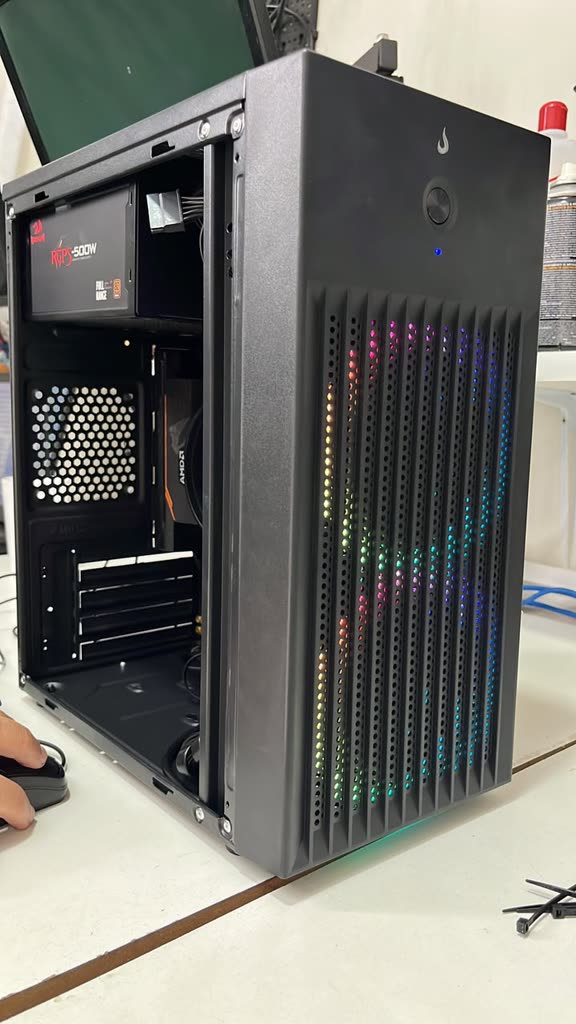
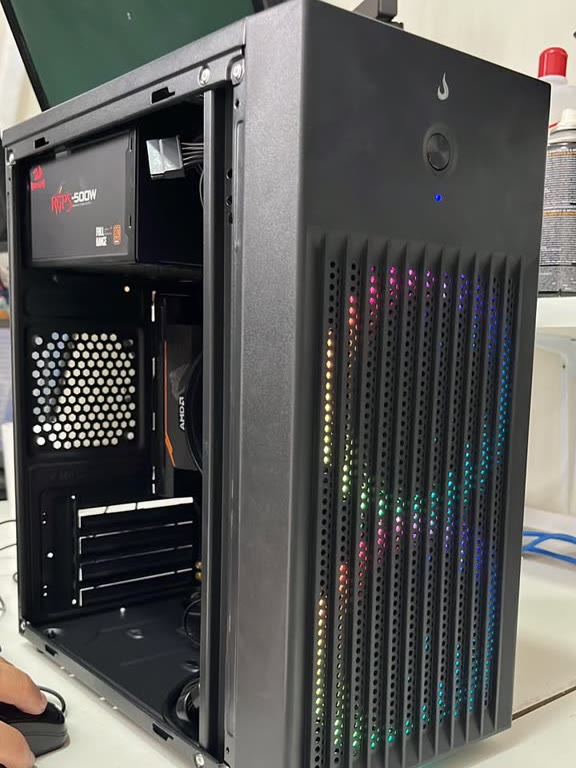
Video do Bruno no hero, grafite fosco e galeria 2x2
Revisao de frontend/UX apontou os tres pontos pedidos e mais sete achados.

- Video do Instagram sai do Sobre e vira a coluna direita do hero, no
  mesmo padrao opt-in dos outros: carrega o poster, nunca o mp4
- Preto puro #0d0d0d vira grafite fosco #23262b; texto, amarelo e o
  wordmark branco da logo todos acima de 10:1
- .topo e o meta theme-color nao usam a variavel, foram junto na mao
- Galeria: a foto da placa de iPhone desce do hero e fecha o grid 2x2,
  que antes deixava a terceira foto orfa sozinha na segunda linha
- montagem-pc e placa-iphone recortadas para 3:4 no arquivo-fonte; o
  object-fit cover cortava as duas em lugar errado
- Nav ganha o link da secao de video, que so era alcancavel por scroll
- Chips do hero na mesma ordem do h1
- Remove regra .galeria duplicada no media query de 640px
- README reescrito: estava documentando noindex e dominio pendente

diff --git a/index.html b/index.html
@@ -6,7 +6,7 @@
 <link rel="canonical" href="https://cerestecnologia.com.br/">
 <title>Ceres · Assistência técnica de computador, notebook, celular e impressora em Bonsucesso, Rio de Janeiro</title>
 <meta name="description" content="Manutenção de computador, notebook, celular e impressora em Bonsucesso, Rio de Janeiro. 5,0 no Google com 229 avaliações.">
-<meta name="theme-color" content="#0d0d0d">
+<meta name="theme-color" content="#23262b">
 <link rel="icon" href="assets/favicon.ico" sizes="any">
 <link rel="icon" type="image/png" sizes="32x32" href="assets/favicon-32.png">
 <link rel="apple-touch-icon" href="assets/apple-touch-icon.png">
@@ -81,6 +81,7 @@
     </a>
     <nav aria-label="Seções">
       <a href="#servicos">Serviços</a>
+      <a href="#trabalho">Serviço sendo feito</a>
       <a href="#como-funciona">Como funciona</a>
       <a href="#onde">Onde estamos</a>
       <a href="#sobre">Sobre</a>
@@ -116,15 +117,19 @@
         <a class="botao-secundario" href="#servicos">Ver serviços</a>
       </div>
       <ul class="hero-chips" aria-label="Tipos de atendimento">
+        <li>Computador</li>
         <li>Notebook</li>
         <li>Celular</li>
-        <li>Computador</li>
         <li>Impressora</li>
       </ul>
     </div>
-    <figure class="hero-foto">
-      <img src="assets/placa-iphone.jpeg" alt="Mão com luva segurando a placa de um iPhone sobre tapete azul de bancada." width="720" height="1280" loading="eager" fetchpriority="high" decoding="async">
-      <figcaption>Placa de iPhone na bancada.</figcaption>
+    <figure class="hero-video">
+      <button class="video-facade" type="button" data-video-src="assets/video-ceres-instagram.mp4" data-video-poster="assets/poster-video-ceres.jpg" data-video-label="Assistir ao vídeo do Bruno, dono da Ceres, 26 segundos" aria-label="Assistir ao vídeo do Bruno, dono da Ceres, 26 segundos">
+        <img src="assets/poster-video-ceres.jpg" alt="" width="576" height="1024" loading="eager" fetchpriority="high" decoding="async">
+        <span class="play" aria-hidden="true"><svg viewBox="0 0 24 24"><path d="M8 5v14l11-7z"/></svg></span>
+      </button>
+      <noscript><video controls preload="none" playsinline poster="assets/poster-video-ceres.jpg"><source src="assets/video-ceres-instagram.mp4" type="video/mp4">Seu navegador não conseguiu carregar este vídeo.</video></noscript>
+      <figcaption>É o Bruno, dono da Ceres. Vídeo publicado no Instagram.</figcaption>
     </figure>
   </section>
 
@@ -327,14 +332,6 @@
       <div class="sobre-texto">
         <p>A Ceres trabalha com computador, notebook, celular e impressora. O serviço vai da limpeza e da troca de peça ao reparo em placa.</p>
         <p>O atendimento é pelo WhatsApp. Você explica o problema do seu jeito, e a Ceres traduz para o que precisa ser feito.</p>
-        <figure class="video-card video-sobre">
-          <button class="video-facade" type="button" data-video-src="assets/video-ceres-instagram.mp4" data-video-poster="assets/poster-video-ceres.jpg" data-video-label="Assistir ao vídeo da Ceres no Instagram, 26 segundos" aria-label="Assistir ao vídeo da Ceres no Instagram, 26 segundos">
-            <img src="assets/poster-video-ceres.jpg" alt="" width="576" height="1024" loading="lazy" decoding="async">
-            <span class="play" aria-hidden="true"><svg viewBox="0 0 24 24"><path d="M8 5v14l11-7z"/></svg></span>
-          </button>
-          <noscript><video controls preload="none" playsinline poster="assets/poster-video-ceres.jpg"><source src="assets/video-ceres-instagram.mp4" type="video/mp4">Seu navegador não conseguiu carregar este vídeo.</video></noscript>
-          <figcaption>Vídeo publicado pela Ceres no Instagram. É o Bruno, dono da Ceres.</figcaption>
-        </figure>
       </div>
       <div class="galeria">
         <figure>
@@ -346,8 +343,12 @@
           <figcaption>Placa de vídeo desmontada.</figcaption>
         </figure>
         <figure>
-          <img src="assets/montagem-pc.jpeg" alt="Gabinete montado, com iluminação colorida acesa." width="576" height="1024" loading="lazy" decoding="async">
+          <img src="assets/montagem-pc.jpeg" alt="Gabinete montado, com iluminação colorida acesa." width="576" height="768" loading="lazy" decoding="async">
           <figcaption>Computador montado.</figcaption>
+        </figure>
+        <figure>
+          <img src="assets/placa-iphone.jpeg" alt="Mão com luva segurando a placa de um iPhone sobre tapete azul de bancada." width="720" height="960" loading="lazy" decoding="async">
+          <figcaption>Reparo em placa de iPhone.</figcaption>
         </figure>
       </div>
     </div>

diff --git a/style.css b/style.css
@@ -1,12 +1,17 @@
 /* Ceres · soluções em tecnologia */
 
+/* Grafite fosco, nao preto puro. O #0d0d0d antigo endurecia a pagina inteira.
+   Este tom e claro o bastante para se ver a diferenca lado a lado com o preto
+   antigo, e ainda mantem todo o texto, o amarelo da marca e o wordmark branco
+   da logo acima de 10:1 (AAA). Ao mudar --preto, mudar junto o rgba do .topo
+   e o meta theme-color do index.html, que nao usam a variavel. */
 :root {
-  --preto: #0d0d0d;
-  --superficie: #161616;
-  --superficie-2: #1c1c1c;
-  --linha: #2f2f2f;
-  --texto: #f4f4f4;
-  --texto-2: #c2c2c2;
+  --preto: #23262b;
+  --superficie: #2d3138;
+  --superficie-2: #30343b;
+  --linha: #4a505a;
+  --texto: #f4f5f6;
+  --texto-2: #c3c8d0;
   --amarelo: #ffd400;
   --amarelo-escuro: #e6bf00;
   --sobre-amarelo: #1a1500;
@@ -76,8 +81,16 @@ a:focus-visible, button:focus-visible {
   position: sticky;
   top: 0;
   z-index: 50;
-  background: rgba(13, 13, 13, .96);
-  border-bottom: 1px solid rgba(255,255,255,.14);
+  background: rgba(35, 38, 43, .88);
+  -webkit-backdrop-filter: saturate(140%) blur(10px);
+  backdrop-filter: saturate(140%) blur(10px);
+  border-bottom: 1px solid rgba(255,255,255,.10);
+}
+
+/* Sem suporte a backdrop-filter o topo precisa voltar a ser opaco,
+   senao o conteudo passa por tras e o wordmark branco some. */
+@supports not (backdrop-filter: blur(10px)) {
+  .topo { background: rgba(35, 38, 43, .97); }
 }
 
 .faixa {
@@ -154,7 +167,7 @@ a:focus-visible, button:focus-visible {
   margin: 0 auto;
   padding: 58px 20px 54px;
   display: grid;
-  grid-template-columns: minmax(0, 1fr) minmax(260px, 360px);
+  grid-template-columns: minmax(0, 1fr) minmax(240px, 304px);
   gap: 42px;
   align-items: center;
 }
@@ -259,16 +272,22 @@ a:focus-visible, button:focus-visible {
   font-size: 15px;
 }
 
-.hero-foto {
-  width: min(100%, 360px);
+/* O video do hero e vertical 9:16. A 304px de largura ele fecha em 540px de
+   altura, que e o teto antes de empurrar o h1 e os botoes para fora da dobra. */
+.hero-video {
+  width: min(100%, 304px);
   justify-self: end;
 }
-.hero-foto img {
-  width: 100%;
-  max-height: 520px;
-  object-fit: cover;
+.hero-video .video-facade {
   border-radius: var(--raio);
+  overflow: hidden;
   border: 1px solid rgba(255,255,255,.14);
+  background: var(--superficie);
+}
+.hero-video figcaption {
+  text-align: center;
+  margin-top: 12px;
+  font-size: 13px;
 }
 
 .secao {
@@ -399,10 +418,18 @@ a:focus-visible, button:focus-visible {
   padding: 0 14px 14px;
 }
 .video-facade,
-.video-card video {
+.video-card video,
+.hero-video video {
   width: 100%;
   aspect-ratio: 9 / 16;
   background: var(--preto);
+}
+/* O JS troca o botao por um <video> de verdade no clique. No hero ele precisa
+   herdar a moldura do botao, senao a borda e o raio somem no play. */
+.hero-video video {
+  border-radius: var(--raio);
+  border: 1px solid rgba(255,255,255,.14);
+  object-fit: cover;
 }
 .video-facade {
   position: relative;
@@ -543,22 +570,33 @@ blockquote p {
   align-items: start;
 }
 .sobre-texto p + p { margin-top: 14px; }
-.video-sobre { margin-top: 22px; }
+
+/* As quatro fotos vem do Instagram em proporcoes diferentes (3:4 e 9:16).
+   Deixar cada uma com a sua altura era o que desarrumava a secao, entao todas
+   entram no mesmo slot 3:4 e o grid fecha 2x2 certinho. */
 .galeria {
   display: grid;
   grid-template-columns: repeat(2, minmax(0, 1fr));
-  gap: 12px;
+  gap: 14px;
+  align-content: start;
 }
 .galeria figure {
   min-height: 0;
+  display: flex;
+  flex-direction: column;
 }
 .galeria img {
   width: 100%;
   aspect-ratio: 3 / 4;
   object-fit: cover;
   border-radius: var(--raio);
+  border: 1px solid var(--linha);
 }
-.galeria img { border: 1px solid var(--linha); }
+.galeria figcaption {
+  margin-top: 8px;
+  font-size: 13px;
+  line-height: 1.35;
+}
 
 .link {
   color: var(--amarelo);
@@ -632,9 +670,12 @@ blockquote p {
     grid-template-columns: 1fr;
     padding-top: 34px;
   }
-  .hero-foto {
+  /* No mobile o video entra depois de todo o texto do hero. A 300px ele
+     acrescenta 533px de rolagem antes de "Serviços", entao encolhe junto
+     com a viewport. */
+  .hero-video {
     justify-self: center;
-    width: min(100%, 340px);
+    width: min(78vw, 300px);
   }
   .cartoes,
   .passos,
@@ -674,7 +715,6 @@ blockquote p {
     width: min(100%, 300px);
   }
   .mapa-facade { aspect-ratio: 4 / 3; }
-  .galeria { grid-template-columns: repeat(2, minmax(0, 1fr)); }
   .flutuante {
     right: 12px;
     bottom: 12px;

diff --git a/README.md b/README.md
@@ -1,44 +1,51 @@
 # Site da Ceres · soluções em tecnologia
 
-Site de página única da Ceres, feito para revisão do Bruno antes de qualquer publicação em domínio próprio.
-
-> Esta é uma versão de revisão. O site continua com `noindex`, e o `Disallow: /` do `robots.txt` deve sair junto com o `noindex` somente depois da aprovação do Bruno e da mudança para o domínio próprio. Só então o schema.org passa a valer para busca.
+Site de página única da Ceres. Publicado na Vercel, projeto `ceres-tecnologia`, domínio `cerestecnologia.com.br`.
 
 ## Decisões
 
-- Tema preto dominante porque a marca da Ceres, no cartão final do vídeo do próprio cliente, é branca sobre preto.
+- Tema escuro dominante porque a marca da Ceres é branca sobre fundo escuro. O preto puro `#0d0d0d` original endurecia a página e foi trocado por um grafite fosco `#23262b`. Todo texto, o amarelo da marca e o wordmark branco ficam acima de 10:1 (AAA).
+- Ao mudar `--preto` no `:root`, mudar junto o `rgba()` do `.topo` e o `<meta name="theme-color">` do `index.html`. Esses dois não usam a variável.
 - `@cerestec` não foi suposto: aparece como marca d'água nos vídeos que o Bruno enviou.
-- O vídeo do Instagram é vídeo institucional do Bruno, não filmagem de conserto. A legenda anterior descrevia algo que o vídeo não mostrava.
+- O vídeo do Instagram é o Bruno, dono da Ceres, e fica no hero como primeira prova social da página.
 - Os outros dois vídeos são montagem de computador e computador montado. A legenda de cada um diz o serviço mostrado.
-- Mapa e vídeo são opt-in: nada de terceiro e nenhum `.mp4` carrega antes de um clique.
+- Mapa e vídeo são opt-in: nada de terceiro e nenhum `.mp4` carrega antes de um clique. O hero carrega só o poster do vídeo, não o vídeo.
+- As fotos da galeria foram recortadas para 3:4 no arquivo-fonte. Antes eram proporções misturadas forçadas no mesmo slot por `object-fit: cover`, e o corte caía em lugar errado.
 - O WhatsApp está ativo. O único ponto de edição para trocar o número fica no fim do `index.html`, na constante `WHATSAPP`.
 - Cada cartão de serviço abre o WhatsApp com uma mensagem própria, usando `data-msg`.
 - A nota 5,0 com 229 avaliações aparece em destaque na página para conversão. `aggregateRating` não é emitido porque avaliação da própria empresa no site da própria empresa é self-serving e não é elegível a rich result para `LocalBusiness`/`Organization`.
 
 ## Dados locais
 
-O endereço confirmado é Rua Cardoso de Morais, 145 - Sl 411 - Bonsucesso, Rio de Janeiro/RJ, CEP 21032-025. Antes do domínio próprio, ainda é preciso o ok do Bruno para o número e a sala.
+O endereço é Rua Cardoso de Morais, 145 - Sl 411 - Bonsucesso, Rio de Janeiro/RJ, CEP 21032-025, confirmado pelo Bruno.
+
+O telefone é `(21) 99143-7505`, confirmado pelo Bruno como o mesmo número do WhatsApp.
 
 O link do perfil no Google usa `cid`, que é canônico e permanente. Não é link de busca que expira.
 
-O `geo` foi removido porque a coordenada disponível não é confiável. O mapa passou a abrir por nome do negócio e endereço, e continua opt-in.
-
-O telefone confirmado no perfil é `(21) 99143-7505`. Antes do domínio próprio, ainda é preciso o Bruno confirmar que este telefone é o mesmo número do WhatsApp da Ceres.
+O `geo` foi removido porque a coordenada disponível não é confiável. O mapa abre por nome do negócio e endereço, e continua opt-in.
 
 O Google Ads bloqueia anúncio pago de assistência técnica terceirizada ao consumidor. Isso torna o orgânico e o perfil local o canal viável no Google, então o `LocalBusiness` e o NAP consistente têm peso maior neste site.
 
-O domínio não foi perdido: a empresa perdeu o site publicado na Wix, não o domínio. Não é preciso comprar domínio novo; basta apontar o DNS ou transferir.
+O domínio antigo era `cerestecnologia.com`, na Wix. Foi comprado um domínio novo no Registro.br, `cerestecnologia.com.br`, e o site passou a ser servido pela Vercel.
 
-## O que falta
+## Publicação
 
-| Item | Por que falta |
-|---|---|
-| Logo em arquivo | Existe cartão de marca no fim do vídeo, mas não arquivo próprio |
+O deploy é pela Vercel, projeto `ceres-tecnologia` no escopo `naua-jorge-s-projects`.
 
-## Confirmar antes do domínio próprio
+```
+vercel deploy          # preview
+vercel deploy --prod   # produção
+```
 
-- Confirmar com o Bruno que `(21) 99143-7505` é o mesmo número do WhatsApp da Ceres.
-- Confirmar com o Bruno o número e a sala do endereço antes da publicação em domínio próprio.
+DNS no Registro.br:
+
+```
+@      A       76.76.21.21
+www    CNAME   cname.vercel-dns.com.
+```
+
+O `vercel.json` define CSP, HSTS e cache. O `.vercelignore` mantém `.qa/` e este README fora do deploy.
 
 ## Estrutura
 
@@ -46,8 +53,13 @@ O domínio não foi perdido: a empresa perdeu o site publicado na Wix, não o do
 index.html      página inteira
 style.css       estilo
 assets/         fotos, posters e vídeos reais da Ceres
-robots.txt      bloqueio de indexação enquanto é rascunho
+robots.txt      libera indexação e aponta o sitemap
+sitemap.xml     uma URL, o domínio próprio
+vercel.json     headers de segurança e cache
+.qa/            capturas de revisão, fora do deploy e do git
 ```
+
+As capturas em `.qa/` são de uma versão anterior da página e não servem de referência visual.
 
 ## Como abrir
 
